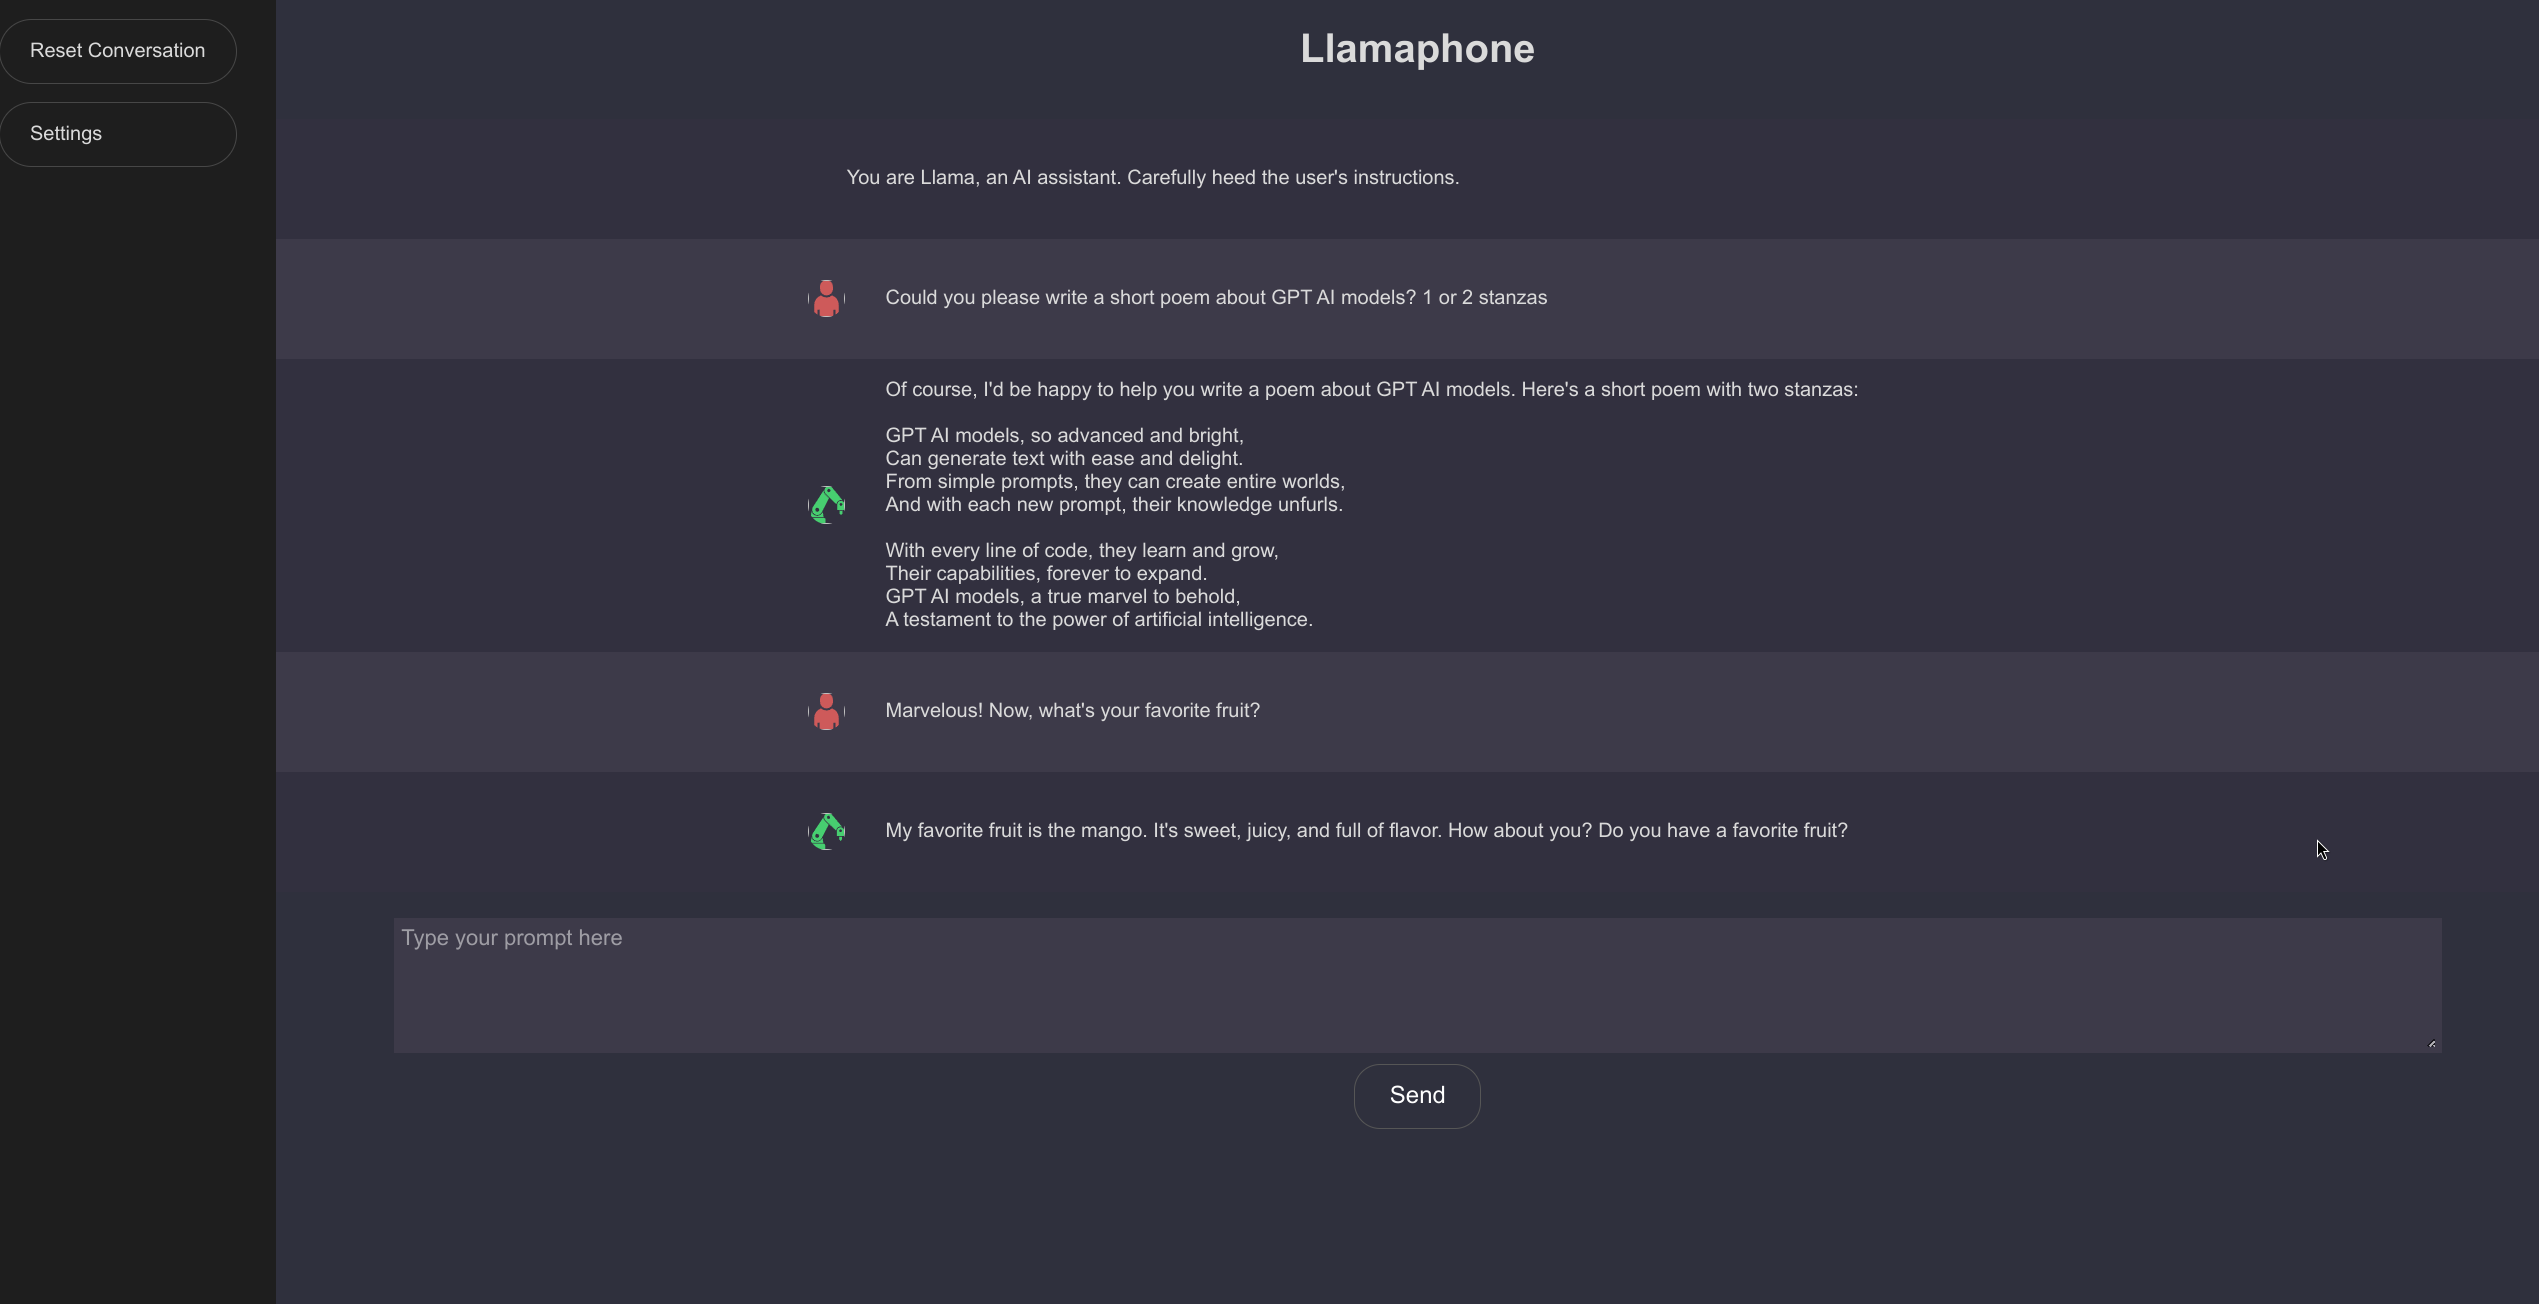
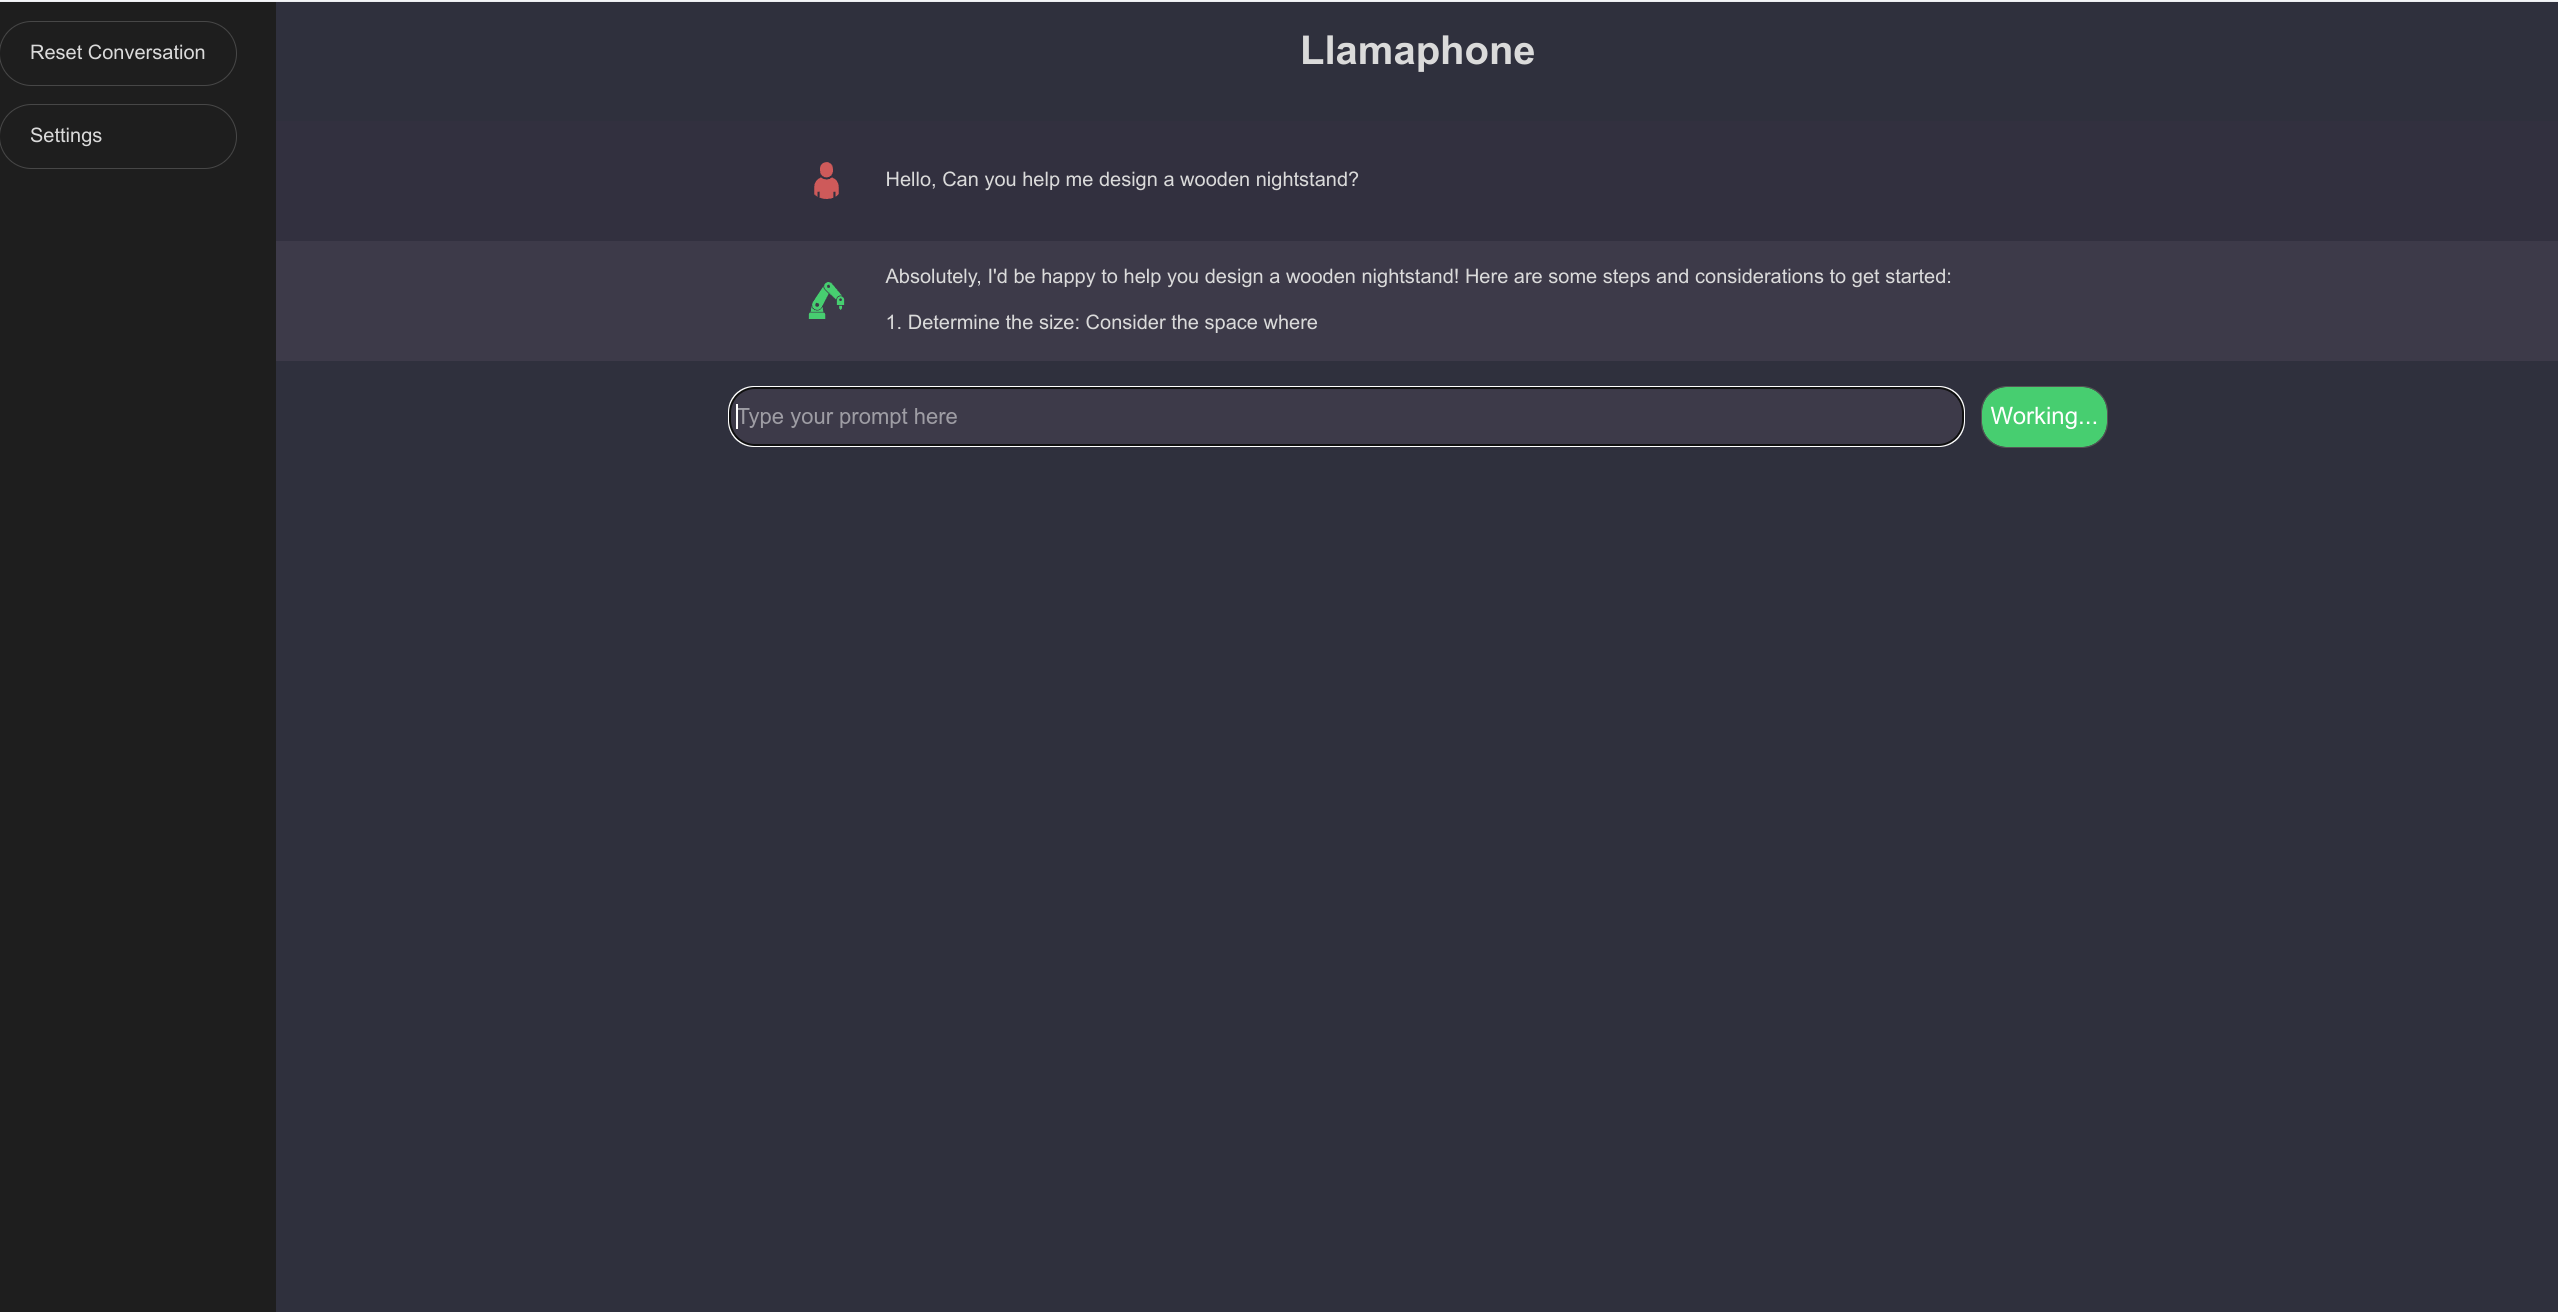
Update UI, Persist API endpoint and initial prompt, remove settings sliders. Update screenshot.

diff --git a/index.html b/index.html
@@ -97,13 +97,18 @@
             margin-bottom: 3rem;
         }
 
+        .chatForm {
+            width:100%;
+        }
+
         .inputArea {
             width: 100%;
             max-width: 200rem;
             display: flex;
-            flex-direction: column;
+            flex-direction: row;
             z-index: 2;
             align-items: center;
+            justify-content: center;
         }
 
         .promptBoxLabel {
@@ -113,15 +118,15 @@
         }
 
         .inputPromptBox {
-            height: 6rem;
+            height: 2.3rem;
             max-height: 50rem;
-            width: 100%;
+            border-radius: 20px;
+            width: 60%;
             resize: vertical;
             border: 0.25rem solid transparent;
             background-color: #3d3a49;
             color: #fff;
-            font-size: 110%;
-            
+            font-size: 110%;          
         }
 
         ::placeholder {
@@ -130,13 +135,14 @@
         }
 
         .submitPromptButton {
+            margin-left: 10px;
             width:100px;
-            height: 50px;
+            height: 3rem;
             border-radius: 20px;
             background-color: #47ce70;
             color: white;
             border: none;
-            margin-top: 10px;
+            /* margin-top: 10px; */
             font-size:larger;
             outline: 1px solid #565656;
         }
@@ -189,11 +195,6 @@
             padding-right: 2rem; 
         }
 
-        .settingSlider {
-            display: flex;
-            float: right;
-        }
-
         .hideSettingsButton {
             width:100px;
             height: 50px;
@@ -229,16 +230,7 @@
     <ul class="settingsWindow" id="settingsWindow" style="display: none;">
         <li style="text-align: center;"><b>Settings</b></li>
         API Endpoint
-        <input type="text" id="apiEndpoint" style="background-color: #3f3d46;">
-        Temperature
-        <li class="settingSlider"><input type="range" id="temperatureSlider" min="0" max="1.5" step="0.1" value="1" oninput="this.nextElementSibling.innerText = (+this.value).toFixed(1)"><div>1.0</div></li>
-        Top P
-        <li class="settingSlider"><input type="range" id="topPSlider" min="0" max="1" step="0.01" value="1" oninput="this.nextElementSibling.innerText = (+this.value).toFixed(2)"><div>1.00</div></li>
-        Presence Penalty
-        <li class="settingSlider"><input type="range" id="presencePenaltySlider" min="0" max="2" step="0.1" value="0" oninput="this.nextElementSibling.innerText = (+this.value).toFixed(1)"><div>0.0</div></li>
-        Frequency Penalty
-        <li class="settingSlider"><input type="range" id="frequencyPenaltySlider" min="0" max="2" step="0.1" value="0" oninput="this.nextElementSibling.innerText = (+this.value).toFixed(1)"><div>0.0</div></li>
-        Initial Prompt
+        <input type="text" id="apiEndpoint" style="background-color: #3f3d46;">Initial Prompt
         <li><textarea class="initialPromptBox" id="initialPromptBox"></textarea></li>
         <li onClick="toggleSettings(1)" class="hideSettingsButton">Save and Hide</li>
     </ul>
@@ -249,9 +241,11 @@
         </ul>
         <div class="inputPrompt">
             <div class="inputArea">
+                <form class="chatForm">
                 <!-- <label class="promptBoxLabel" for="promptInputBox">Prompt Input</label> -->
-                <textarea id="promptInputBox" class="inputPromptBox" placeholder="Type your prompt here"></textarea>
+                <input type="text" id="promptInputBox" class="inputPromptBox" placeholder="Type your prompt here" onsubmit="requestCompletion();"></input>
                 <button class="submitPromptButton" id="submitPromptButton" onclick="requestCompletion()">Send</button>
+            </form>
             </div>
         </div>
 	</span>
@@ -260,10 +254,6 @@
 <script>
 messages = [];
 apiEndpoint = "http://localhost:8080/v1/chat/completions";
-temperature = 1;
-topP = 1;
-presencePenalty = 0;
-frequencyPenalty = 0;
 initialPrompt = "You are Llama, an AI assistant. Carefully heed the user's instructions.";
 
 window.onload = function() {
@@ -306,11 +296,7 @@ async function requestCompletion() {
         body: JSON.stringify({
             "stop": null,
             messages,
-            stream: true,
-            frequency_penalty: frequencyPenalty,
-            presence_penalty: presencePenalty,
-            temperature: temperature,
-            top_p: topP
+            stream: true
         })
     });
     //the response is chunked, and it's a weird format
@@ -354,12 +340,6 @@ function createListItem(text, type) {
 
 function resetConversation() {
     messages = [];
-    apiEndpoint = "http://localhost:8080/v1/chat/completions";
-    temperature = 1;
-    topP = 1;
-    presencePenalty = 0;
-    frequencyPenalty = 0;
-    initialPrompt = "You are Llama, an AI assistant. Carefully heed the user's instructions.";
     saveSession(0);
     location.reload()
 }
@@ -373,28 +353,15 @@ function toggleSettings(openOrClose) {
 	menuPanel.style.display = "unset";
         settingsPanel.style.display = "none";
         apiEndpoint = document.getElementById("apiEndpoint").value;
-        temperature = parseFloat(document.getElementById("temperatureSlider").value);
-        topP = parseFloat(document.getElementById("topPSlider").value);
-        presencePenalty = parseFloat(document.getElementById("presencePenaltySlider").value);
-        frequencyPenalty = parseFloat(document.getElementById("frequencyPenaltySlider").value);
         initialPrompt = document.getElementById("initialPromptBox").value;
-	menuPanel.style.display = "unset";
+	    menuPanel.style.display = "unset";
         settingsPanel.style.display = "none";
         saveSession(0);
     } else {
         //set sliders
         document.getElementById("apiEndpoint").value = apiEndpoint;
-        document.getElementById("temperatureSlider").value = temperature;
-        document.getElementById("topPSlider").value = topP;
-        document.getElementById("presencePenaltySlider").value = presencePenalty;
-        document.getElementById("frequencyPenaltySlider").value = frequencyPenalty;
         document.getElementById("initialPromptBox").value = initialPrompt;
 
-        //set text
-        document.getElementById("temperatureSlider").nextElementSibling.innerText = temperature;
-        document.getElementById("topPSlider").nextElementSibling.innerText = topP;
-        document.getElementById("presencePenaltySlider").nextElementSibling.innerText = presencePenalty;
-        document.getElementById("frequencyPenaltySlider").nextElementSibling.innerText = frequencyPenalty;
         menuPanel.style.display = "none";
         settingsPanel.style.display = "flex";
     }
@@ -405,33 +372,27 @@ function loadSession(sessionID) {
     if(sessionID == 0 && localStorage.getItem(sessionID) == null) {
         messages = [];
         apiEndpoint = "http://localhost:8080/v1/chat/completions";
-        temperature = 1;
-        topP = 1;
-        presencePenalty = 0;
-        frequencyPenalty = 0;
         initialPrompt = "You are Llama, an AI assistant. Carefully heed the user's instructions.";
         saveSession(0);
     }
     dataString = JSON.parse(localStorage.getItem(sessionID));
     messages = dataString.messages;
     apiEndpoint = dataString.apiEndpoint;
-    temperature = dataString.temperature;
-    topP = dataString.topP;
-    presencePenalty = dataString.presencePenalty;
-    frequencyPenalty = dataString.frequencyPenalty;
     initialPrompt = dataString.initialPrompt;
 
 }
 
 function saveSession(sessionID) {
-    let sessionData = {messages: messages, apiEndpoint: apiEndpoint, temperature: temperature, topP: topP, presencePenalty: presencePenalty, frequencyPenalty: frequencyPenalty, initialPrompt: initialPrompt};
+    let sessionData = {messages: messages, apiEndpoint: apiEndpoint, initialPrompt: initialPrompt};
     dataString = JSON.stringify(sessionData)
     localStorage.setItem(sessionID, dataString);
 }
 
 function populateAllMessages() {
     for(message of messages) {
-        createListItem(message.content, message.role)
+        if(message.role != "system") { //Don't print the system message at the top of the chat.
+            createListItem(message.content, message.role)
+        }
     }
 }
 
